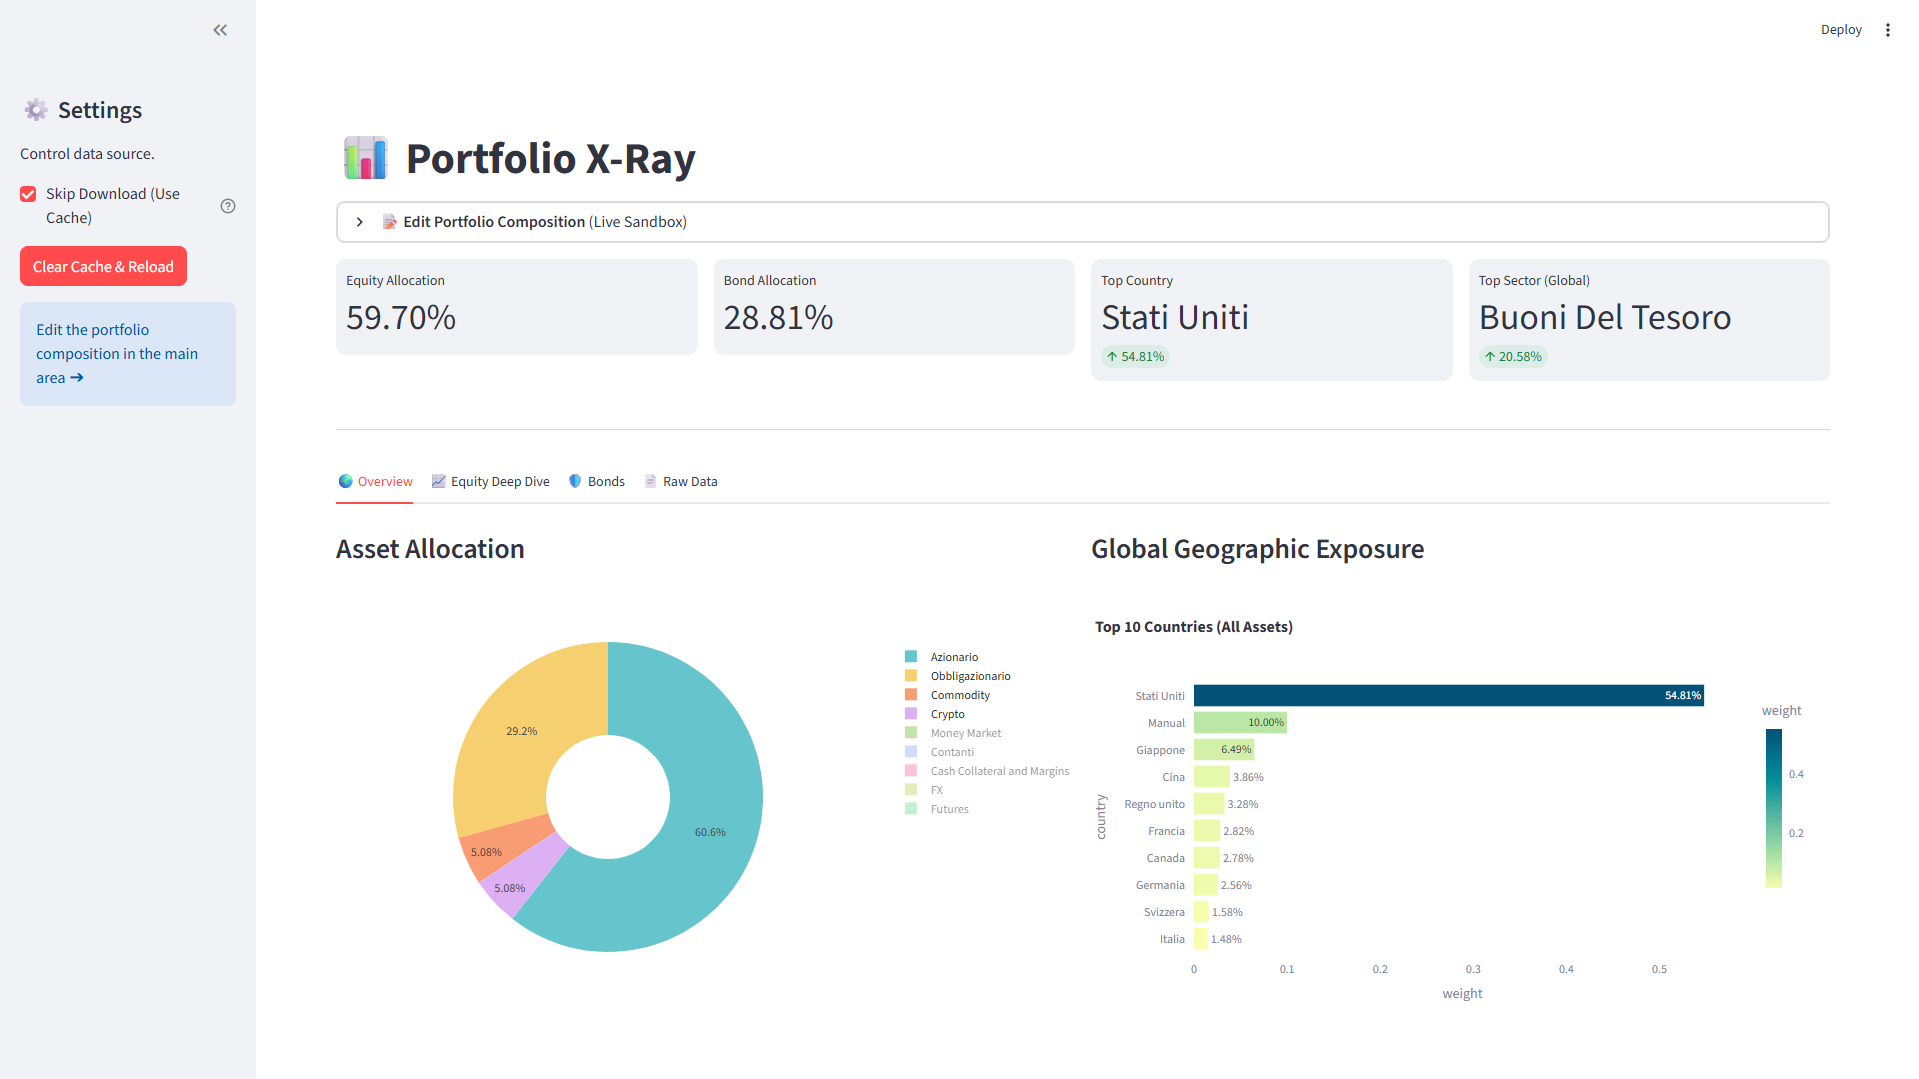
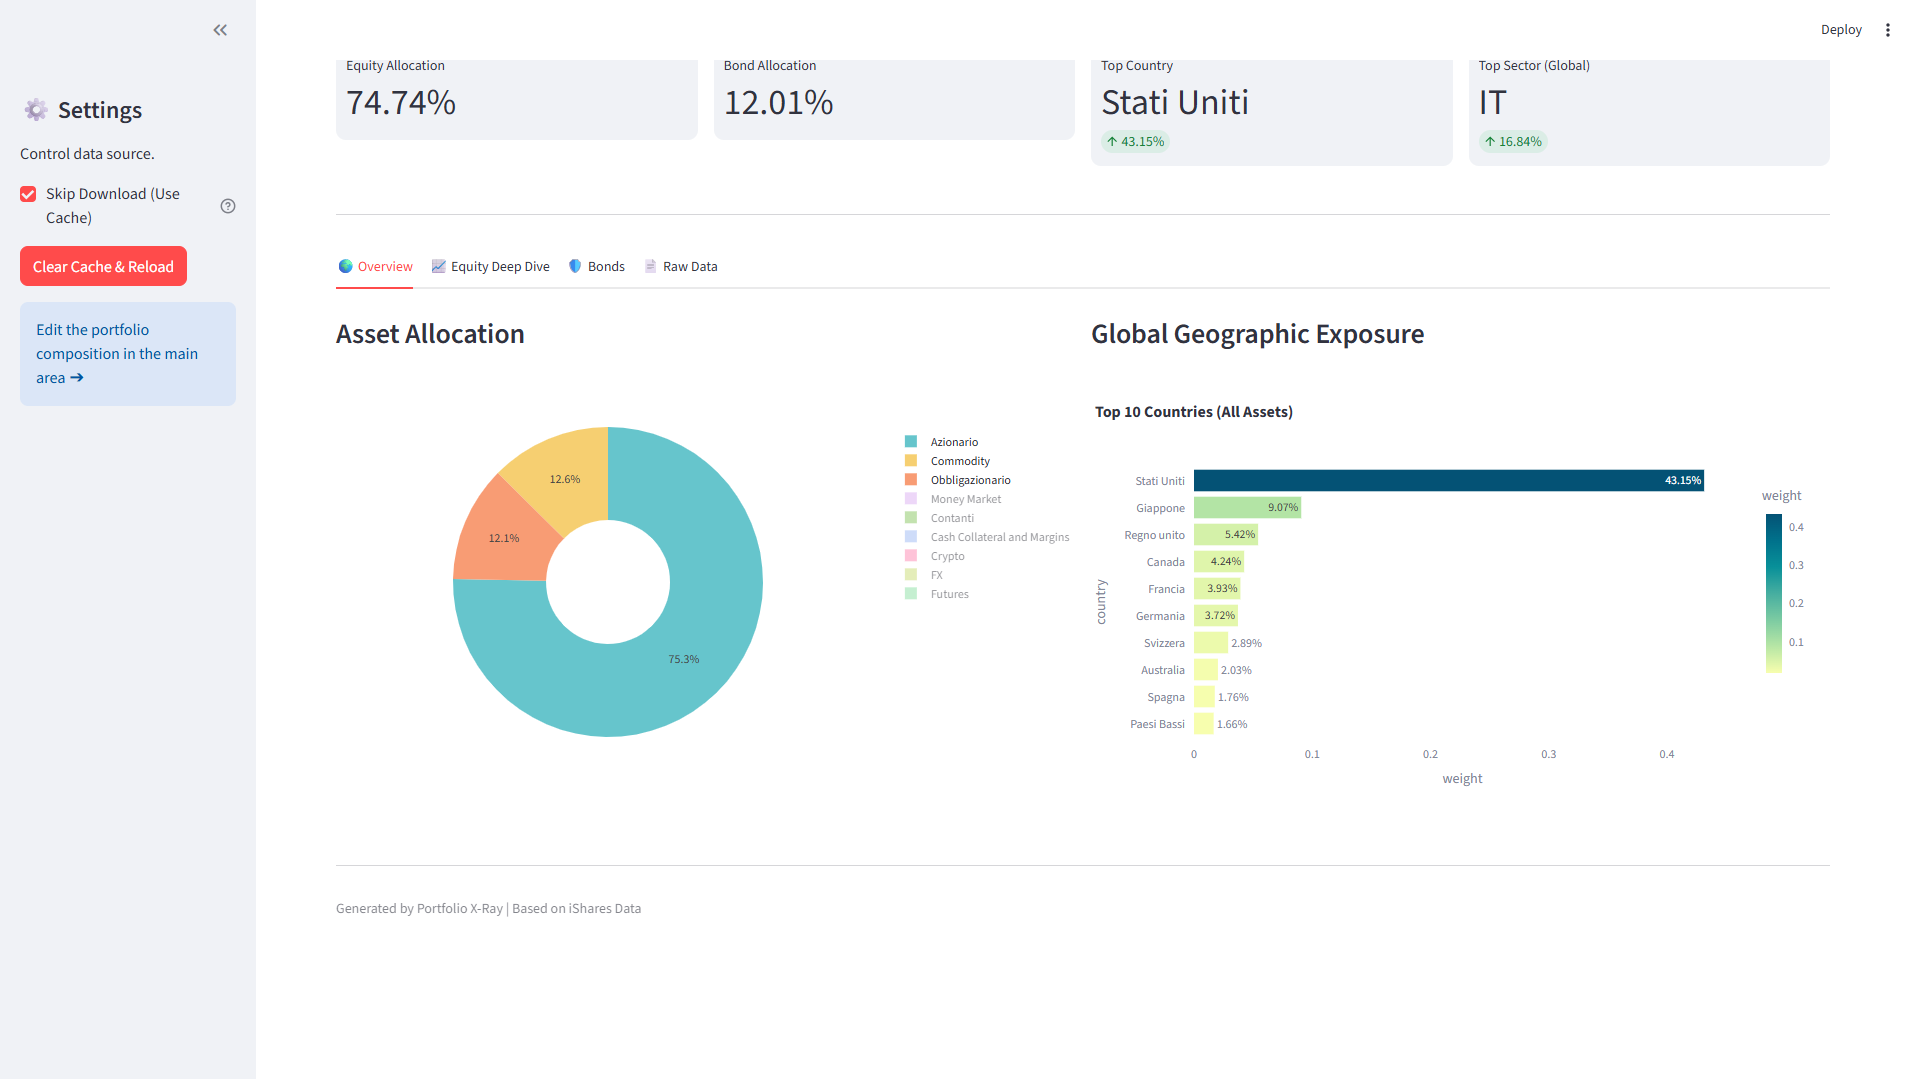
Bug Fixing - "Manual" country analysis removal

diff --git a/portfolio_manager.py b/portfolio_manager.py
@@ -203,8 +203,8 @@ class PortfolioManager:
                     "ticker": item.get("name", "UNKNOWN").upper(),
                     "name": item.get("name", "Unknown"),
                     "asset_class": item.get("asset_class", "Other"),
-                    "sector": "Manual",
-                    "country": "Manual",
+                    "sector": None,
+                    "country": None,
                     "weight": allocation_weight
                 }])
                 data_frames.append(df)
